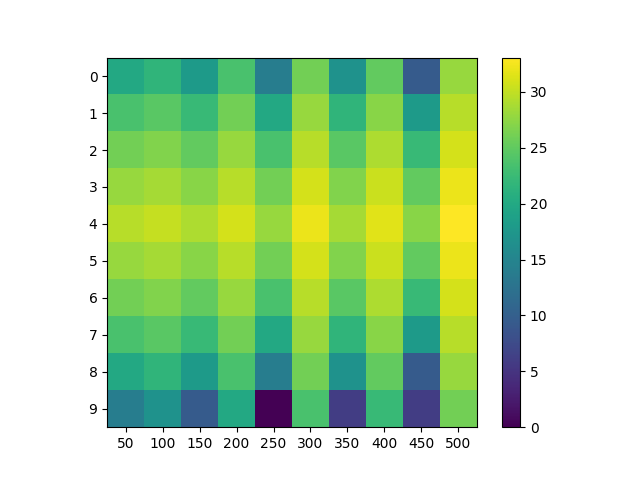
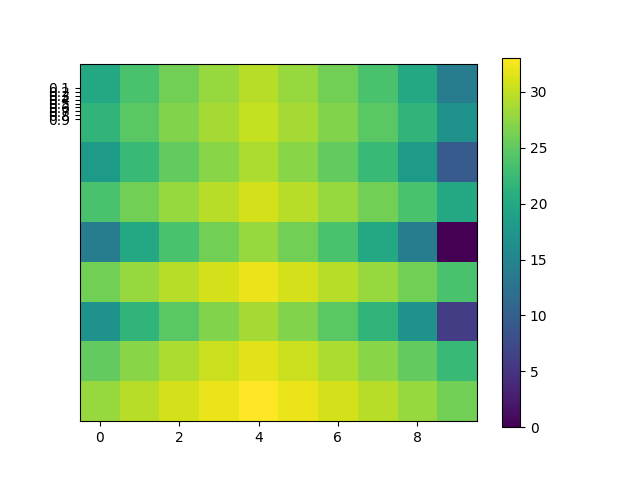
Some RTI Plotchanges

diff --git a/RTIPlot.py b/RTIPlot.py
@@ -4,6 +4,38 @@ import numpy as np
 #Speed of light 
 c = 299,792,458*10^-12
 
+#Sample data from deepseek transformed into how we will actually be receiving the data
+receivedData = ([[0.1,[10, 15, 20, 25, 30, 25, 20, 15, 10, 5]],
+                    [0.2,[12, 17, 22, 27, 32, 27, 22, 17, 12, 7]], 
+                    [0.3,[8, 13, 18, 23, 28, 23, 18, 13, 8, 3]],
+                    [0.4,[15, 20, 25, 30, 35, 30, 25, 20, 15, 10]],
+                    [0.5,[5, 10, 15, 20, 25, 20, 15, 10, 5, 1]],
+                    [0.6,[20, 25, 30, 35, 40, 35, 30, 25, 20, 15]],
+                    [0.7,[7, 12, 17, 22, 27, 22, 17, 12, 7, 2]],
+                    [0.8,[18, 23, 28, 33, 38, 33, 28, 23, 18, 13]],
+                    [0.9,[25, 30, 35, 40, 45, 40, 35, 30, 25, 20]]])
+receivedAmplitude = []
+longTime = []
+for i in range (len(receivedData)):
+    receivedAmplitude.append(receivedData[i][1])
+    longTime.append(receivedData[i][0])
+print(longTime)
+
+
+#Converts the amplitude array into decibels
+db = 20 * np.log10(np.abs(receivedAmplitude))
+
+#Plots the data
+plt.imshow(db, aspect='equal')
+#plt.xticks(10, (len(receivedData[0][1]))*61+300)
+plt.yticks(longTime)
+plt.colorbar()
+plt.savefig("FirstRTIPlot.png")
+plt.show()
+
+
+
+"""
 #Sample data from deepseek
 ranges = [50, 100, 150, 200, 250, 300, 350, 400, 450, 500]
 amplitude = np.array([[10, 15, 20, 25, 30, 25, 20, 15, 10, 5],
@@ -17,15 +49,7 @@ amplitude = np.array([[10, 15, 20, 25, 30, 25, 20, 15, 10, 5],
             [3, 8, 13, 18, 23, 18, 13, 8, 3, -2],
             [25, 30, 35, 40, 45, 40, 35, 30, 25, 20]]) 
 
-#Sample data from deepseek transformed into how we will actually be receiving the data
-receivedAmplitude = np.array([[0.1, [10, 15, 20, 25, 30, 25, 20, 15, 10, 5]], [0.2,[12, 17, 22, 27, 32, 27, 22, 17, 12, 7]], [0.3,[8, 13, 18, 23, 28, 23, 18, 13, 8, 3]],
-[0.4,[15, 20, 25, 30, 35, 30, 25, 20, 15, 10]], [0.5, [5, 10, 15, 20, 25, 20, 15, 10, 5, 1]],
-[0.6,[20, 25, 30, 35, 40, 35, 30, 25, 20, 15]], [0.7,[7, 12, 17, 22, 27, 22, 17, 12, 7, 2]], [0.8,[18, 23, 28, 33, 38, 33, 28, 23, 18, 13]], [0.9,[25, 30, 35, 40, 45, 40, 35, 30, 25, 20]]])
-
-#Converts the amplitude array into decibels
-db = 20 * np.log10(np.abs(amplitude))
-
-#Converts the test data into a 3d Array -> we don't need this yet. Could be useful for when we get the data and try to convert into what we have above
+            #Converts the test data into a 3d Array -> we don't need this yet. Could be useful for when we get the data and try to convert into what we have above
 
 arr = []
 for i in range(len(amplitude)):
@@ -36,13 +60,4 @@ for i in range(len(amplitude)):
     arr.append(zist)    
 arr = np.array(arr)
 print (arr)
-
-
-#Plots the data
-plt.imshow(arr, aspect='equal')
-plt.xticks(range(len(ranges)), ranges)
-plt.yticks(range(10))
-plt.colorbar()
-plt.savefig("FirstRTIPlot.png")
-plt.show()
-
+"""
